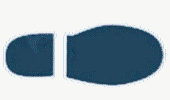
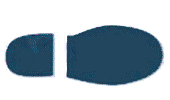
Background none, coordinaten anders

diff --git a/find/babaMap.js b/find/babaMap.js
@@ -69,7 +69,7 @@ var imageUrl = "footstep.png";
 var imageUrlRight = "footstepRight.png";
 
 var coordinates = L.latLngBounds([52.14233006663446, 5.399290711598951], [52.14236883812015, 5.399411445488624])
-var coordinatesRight = L.latLngBounds([52.142311, 5.39929], [52.142284, 5.399413])
+var coordinatesRight = L.latLngBounds([52.142311, 5.39929], [52.142254, 5.399413])
 var imageOverlay2 = L.imageOverlay(imageUrlRight, coordinatesRight).addTo(map)
 var imageOverlay = L.imageOverlay(imageUrl, coordinates).addTo(map)
 // getPosition();
